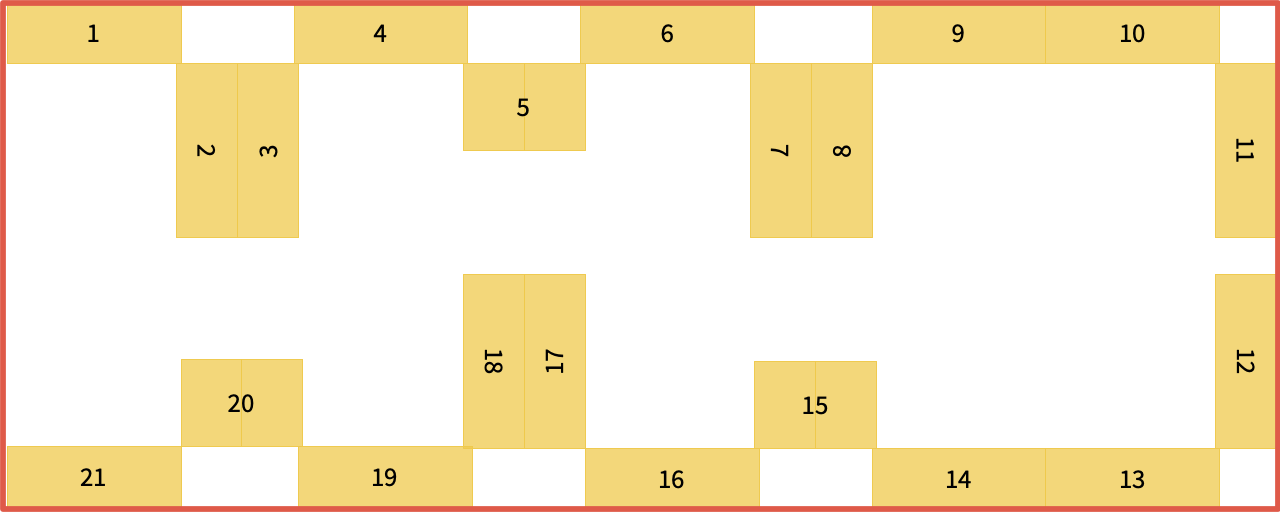
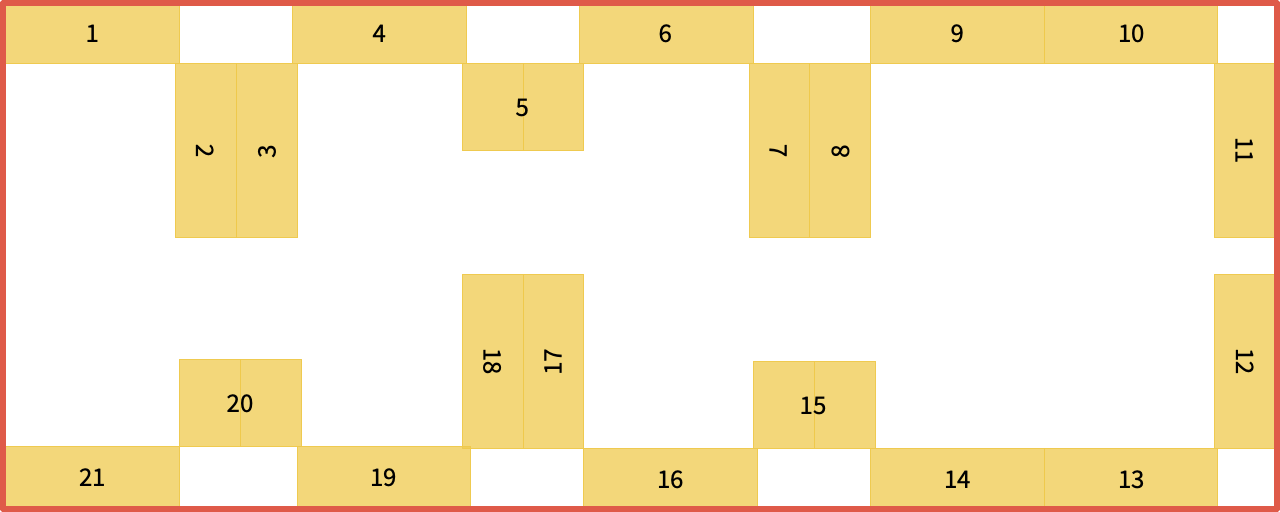
Add blog post

diff --git a/blog/_posts/2026-07-28-container-layout.md b/blog/_posts/2026-07-28-container-layout.md
@@ -1,0 +1,101 @@
+---
+title: Shipping container library layout  
+description: bookcasemaxxing by numbers
+excerpt:     bookcasemaxxing by numbers
+layout: hh
+tags: books
+image: billy.jpg
+---
+
+![](billy.jpg)
+
+[Semyon Borisov](https://unsplash.com/photos/KgVwQ5NpoLw){:.photocredit}  
+
+{:.series}
+1. [Shipping container library](container-library)
+2. Library layout ←
+
+# Shipping container library layout
+**bookcasemaxxing by numbers**
+
+![](billy.jpg)
+
+[Semyon Borisov](https://unsplash.com/photos/KgVwQ5NpoLw){:photocredit}
+
+If you liked the idea of a personal [shipping container library](https://hilton.org.uk/blog/container-library)
+in a 20-foot intermodal container that you rent at a self-storage facility, perhaps you want to know how many books you’d have room for.
+
+## Size constraints
+
+Starting with a shipping container gives you a fixed amount of space to work with:
+
+* 5.867 m long
+* 2.330 m wide
+* 2.350 m high
+
+For our purposes, we’ll use the [IKEA BILLY](https://www.ikea.com/gb/en/cat/billy-series-28102/)
+as our reference bookcase, with dimensions:
+
+* 0.80 m wide
+* 0.28 m deep
+* 2.02 m high
+
+Note that this means that in a bare container, you’ll have a spare 33 cm above each bookcase.
+Tragically, this means that a 35 cm
+[BILLY height extension unit](https://www.ikea.com/gb/en/p/billy-height-extension-unit-white-40263853/) won’t quite fit.
+A proper floor-to-ceiling bookcase will require a custom solution.
+Still, at least this means that you have room to install a nicer floor in your container.
+
+You also need room to stand in front of each bookcase, far enough back so you can read the spines on the top shelf,
+and with space to kneel on the floor to get to the bottom shelf.
+Let’s assume that we need 80 cm – one bookcase width – in front of each bookcase.
+
+## Minimum viable bookcase
+
+The easiest layout lines the walls with bookcases.
+This gives you 16 bookcases in the following plan, with the container doors opening on the left (not shown).
+
+![Diagram showing 16 bookcases lining the container walls](container/edges.webp)
+
+If you look closely, you’ll see that bookcases 7 and 8 don’t meet exactly at the corners.
+The container’s length means that bookcase 8 overlaps 1.3 cm of the right-hand edge of bookcase 7.
+Fortunately, this doesn’t matter, because BILLY bookcases have 2 cm-thick side panels, so the overlap doesn’t obstruct any books.
+We’ll ignore the [BILLY corner unit](https://www.ikea.com/gb/en/p/billy-bookcase-combination-crnr-solution-white-s99395936/),
+because that stores fewer books.
+
+The light grey areas show the 80 cm reserved space in front of each bookcase.
+Unsatisfyingly, this leaves a 17 cm gap between bookcases 8 and 9, and roughly 1 m² unused ‘white space’.
+We can add more bookcases.
+
+## More bookcases
+
+We can try adding bookcases, because we’ve got some unused floorspace,
+and because bookcases that face each other can share _access space_.
+For example, five more bookcases along the middle:
+
+![Diagram showing five more bookcases in the middle](container/middle.webp)
+
+This might feel cramped, in practice, because the bookcases’ 28 cm depth exceeds the 17 cm gap.
+Maybe this doesn’t matter if you decide not admit guests to your private library, 
+although the space at the front would allow a one-way system, even when you close the doors.
+
+21 bookcases looks good, but the boring layout less so.
+This doesn’t leave much space for an armchair either.
+Let’s try a more interesting layout.
+
+## Cosy alcoves
+
+Arranging bookcases into U-shapes creates alcoves that increase the book density,
+so you get 11 bookcases along one wall.
+
+![Diagram showing alcoves along one wall](container/alcoves-top.webp)
+
+The container’s width doesn’t allow for alcoves the same size on both sides,
+but we can use the 40 cm half-width BILLY bookcases to make a shallow alcove.
+We can also swap one pair of half-width bookcases to make a zig-zag central corridor.
+
+![Diagram showing a more interesting layout for 21 bookcases](container/alcoves.webp)
+
+The larger 1.6 m × 1.6 m square area at the end furthest from the doors (right) gives you enough space for a small rug and an armchair,
+for additional [hygge](https://en.wikipedia.org/wiki/Hygge).
+Besides, you probably need somewhere to sit, while you work out how many books you can store like this.

diff --git a/blog/_posts/2026-07-21-container-library.md b/blog/_posts/2026-07-21-container-library.md
@@ -11,6 +11,10 @@ image: shipping-containers-pastel.jpg
 
 [Kristin Hillery](https://unsplash.com/photos/YId0l2vqc6E){:.photocredit}
 
+{:.series}
+1. Shipping container library ←
+2. Library layout
+
 As hobbies go, reading novels hardly costs anything at all.
 You have zero start-up costs, assuming that you already know how to read, and physical books don’t require additional hardware.
 You can buy books one at a time, and they take a while to read.
